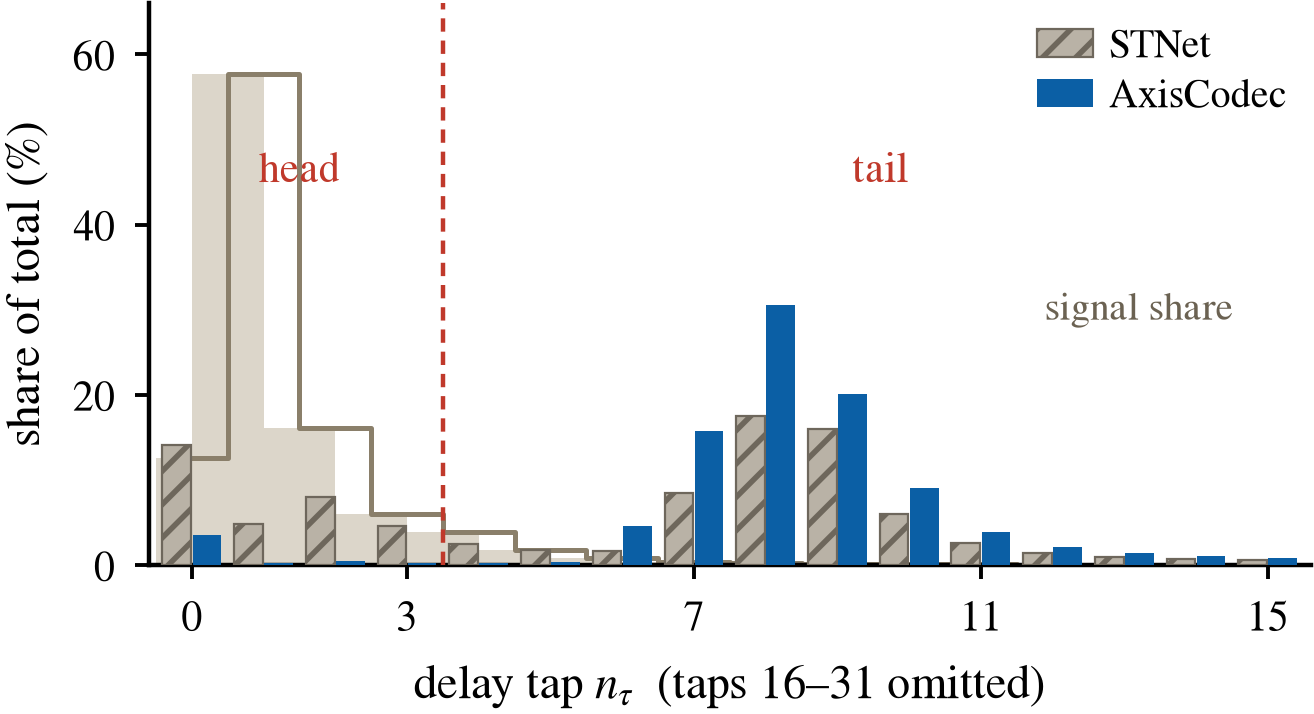
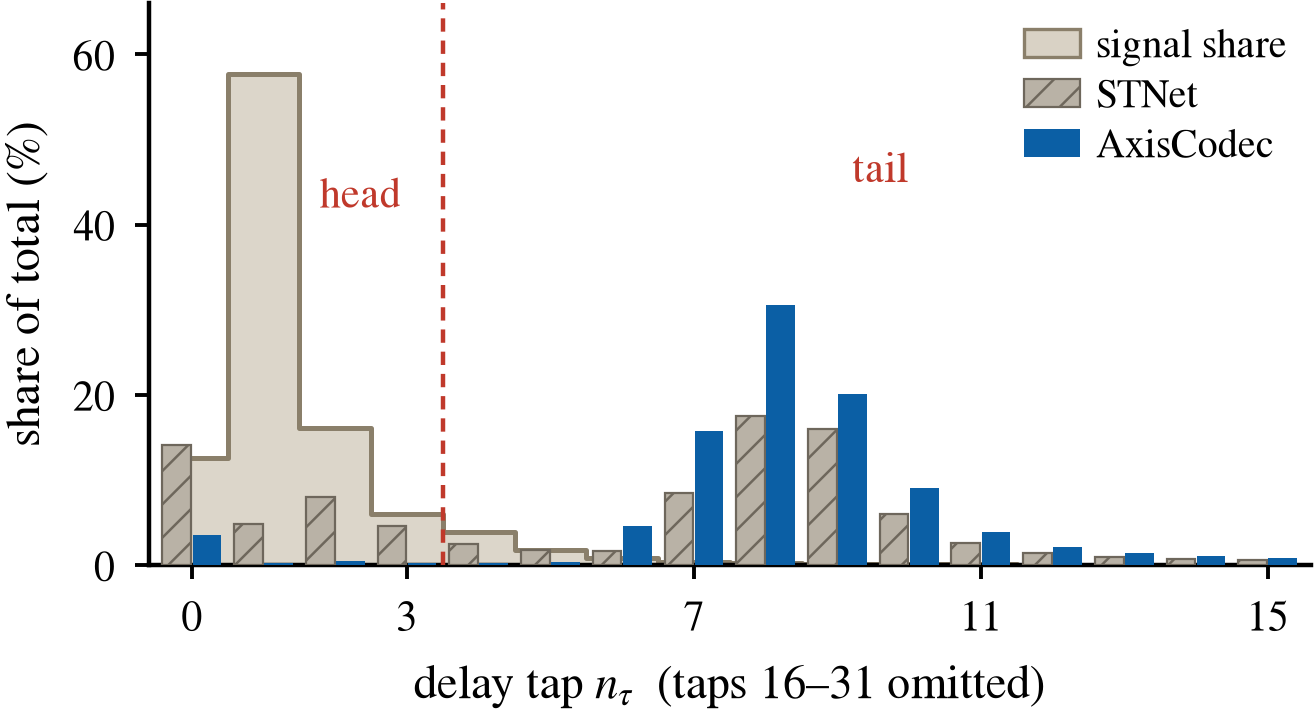
图2：修正 signal share 半步错位，图例统一标注

diff --git a/paper/scripts/make_fig2.py b/paper/scripts/make_fig2.py
@@ -24,24 +24,26 @@ sig = np.array(s["delay_sig"][:16]) * 100
 es = np.array(s["delay_err"][:16]) * 100
 ea = np.array(a["delay_err"][:16]) * 100
 
-ax.fill_between(n - 0.5, 0, sig, step="mid", color="#D9D2C5", alpha=0.9, lw=0, zorder=1)
+ax.fill_between(n, 0, sig, step="mid", color="#D9D2C5", alpha=0.9, lw=0, zorder=1)
 ax.plot(n, sig, drawstyle="steps-mid", color="#8A7F6A", lw=0.9, zorder=2)
 ax.bar(n - 0.21, es, width=0.40, color="#B9B2A6", edgecolor="#6E675C", lw=0.4,
        hatch="////", label="STNet", zorder=3)
 ax.bar(n + 0.21, ea, width=0.40, color=style.C["blue"], label="AxisCodec", zorder=3)
 
 ax.axvline(3.5, color=style.C["red"], lw=0.8, ls=(0, (3, 2)), zorder=4)
-ax.text(1.5, 45, "head", ha="center", fontsize=7.6, color=style.C["red"])
+ax.text(2.35, 42, "head", ha="center", fontsize=7.6, color=style.C["red"])
 ax.text(9.6, 45, "tail", ha="center", fontsize=7.6, color=style.C["red"])
-ax.text(13.2, float(sig.max()) * 0.52, "signal share", ha="center", va="center",
-        fontsize=7.0, color="#6B6252")
 
 ax.set_xlim(-0.6, 15.6)
 ax.set_ylim(0, 66)
 ax.set_xlabel("delay tap $n_\\tau$  (taps 16–31 omitted)")
 ax.set_ylabel("share of total (%)")
 ax.set_xticks([0, 3, 7, 11, 15])
-ax.legend(loc="upper right", bbox_to_anchor=(1.0, 1.0), ncol=1, fontsize=7.2)
+from matplotlib.patches import Patch
+handles = [Patch(facecolor="#D9D2C5", edgecolor="#8A7F6A", lw=0.6, label="signal share"),
+           Patch(facecolor="#B9B2A6", edgecolor="#6E675C", hatch="////", lw=0.4, label="STNet"),
+           Patch(facecolor=style.C["blue"], label="AxisCodec")]
+ax.legend(handles=handles, loc="upper right", bbox_to_anchor=(1.0, 1.0), ncol=1, fontsize=7.2)
 
 
 for ext in ("png", "pdf"):
